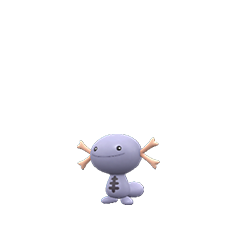
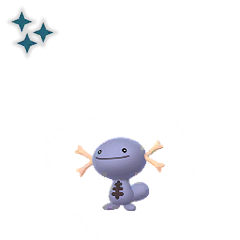
added shiny image frame downloading and saving

Changed region(s): [[0.2917, 0.5542, 0.7, 0.9042], [0.0292, 0.0292, 0.2333, 0.2333]]

diff --git a/backend/data/editor/frames/pokemon_shiny_image_frame.py b/backend/data/editor/frames/pokemon_shiny_image_frame.py
@@ -1,4 +1,4 @@
-# pokemon_image_frame.py
+# pokemon_shiny_image_frame.py
 import tkinter as tk
 from tkinter import filedialog, messagebox, simpledialog
 from PIL import Image, ImageTk
@@ -6,11 +6,11 @@ import os
 import requests
 from io import BytesIO
 
-class PokemonImageFrame:
-    def __init__(self, parent, image_url, pokemon_id):
+class PokemonShinyImageFrame:
+    def __init__(self, parent, image_url_shiny, pokemon_id):
         self.parent = parent
         self.pokemon_id = pokemon_id
-        self.frame = tk.Frame(parent)  # This is the main frame
+        self.frame = tk.Frame(parent)
         self.frame.pack(side=tk.LEFT, fill=tk.BOTH, expand=True, padx=10, pady=10)
 
         # Create a container frame within the main frame
@@ -18,7 +18,7 @@ class PokemonImageFrame:
         self.container_frame.pack(fill=tk.BOTH, expand=True, padx=5, pady=5)
 
         # Create a label for the container frame
-        self.frame_label = tk.Label(self.container_frame, text=f"Default Image Pokemon ID: {pokemon_id}", bg="white")
+        self.frame_label = tk.Label(self.container_frame, text=f"Shiny Image Pokémon ID: {pokemon_id}", bg="white")
         self.frame_label.pack(side=tk.TOP, fill=tk.X)
 
         # Initialize image_label attribute within the container frame
@@ -27,29 +27,32 @@ class PokemonImageFrame:
 
         # Get the directory of the currently executing script/file
         script_directory = os.path.dirname(os.path.realpath(__file__))
-
+        
         # Correctly navigate up four directories from the script location to reach the Go folder
         go_directory = os.path.normpath(os.path.join(script_directory, '../../../../'))
 
         # Construct the path to the images directory
         self.relative_path_to_images = os.path.join(go_directory, 'frontend', 'public')
 
-        # Trim leading slash from image_url if present to ensure it's treated as relative
-        image_url = image_url.lstrip("\\/")
+        # Trim leading slash from image_url_shiny if present to ensure it's treated as relative
+        image_url_shiny = image_url_shiny.lstrip("\\/")
 
-        # Combine the base path with the specific image URL
-        self.full_image_path = os.path.join(self.relative_path_to_images, image_url)
+        # Combine the base path with the specific shiny image URL
+        self.full_image_path = os.path.join(self.relative_path_to_images, image_url_shiny)
 
         # Normalize the path to ensure consistent slashes
         self.full_image_path = os.path.normpath(self.full_image_path)
 
-        # Attempt to load and display the image
+        # Determine paths relative to the script
+        self.shiny_icon_path = os.path.normpath(os.path.join(self.relative_path_to_images, 'images', 'shiny_icon.png'))
+
+        # Attempt to load and display the shiny image
         try:
             self.image = Image.open(self.full_image_path)
             self.photo = ImageTk.PhotoImage(self.image)
             self.image_label.configure(image=self.photo)
         except FileNotFoundError:
-            print(f"Image file does not exist: {self.full_image_path}")
+            print(f"Shiny image file does not exist: {self.full_image_path}")
             # Optionally set a default image if the file is not found
             self.photo = ImageTk.PhotoImage(Image.new('RGB', (240, 240), color='grey'))
             self.image_label.configure(image=self.photo)
@@ -106,6 +109,8 @@ class PokemonImageFrame:
                 messagebox.showerror("Error", f"Failed to process the image: {e}")
 
     def save_and_update_image(self, image):
+        # Combine image with the shiny icon before saving
+        combined_image = self.combine_images(image)
         # Check if the image_url already contains the 'images' directory
         if 'images' not in self.full_image_path:
             # If 'images' is not in the path, it's a new image, so add the directory
@@ -120,14 +125,21 @@ class PokemonImageFrame:
         # Make sure the directory exists, create if it doesn't
         os.makedirs(os.path.dirname(save_path), exist_ok=True)
 
-        # Save the image
-        image.save(save_path)
+        # Save the combined image instead of the original image
+        combined_image.save(save_path, "PNG")
 
         # Update the displayed image
-        self.photo = ImageTk.PhotoImage(image)
+        self.photo = ImageTk.PhotoImage(Image.open(save_path))
         self.image_label.configure(image=self.photo)
-        self.image_label.image = self.photo  # keep a reference
+        self.image_label.image = self.photo
 
         messagebox.showinfo("Success", f"Image updated successfully at {save_path}")
 
-
+    def combine_images(self, pokemon_image):
+        """
+        Combine the downloaded or selected Pokémon image with the shiny icon.
+        """
+        shiny_icon = Image.open(self.shiny_icon_path).convert("RGBA")
+        base_image = pokemon_image.copy()
+        base_image.paste(shiny_icon, (0, 0), shiny_icon)
+        return base_image

diff --git a/backend/data/editor/pokemon_details_window.py b/backend/data/editor/pokemon_details_window.py
@@ -8,6 +8,7 @@ from frames.pokemon_moves_frame import PokemonMovesFrame
 from frames.pokemon_evolutions_frame import PokemonEvolutionsFrame
 from frames.pokemon_shadow_frame import PokemonShadowFrame
 from frames.pokemon_image_frame import PokemonImageFrame
+from frames.pokemon_shiny_image_frame import PokemonShinyImageFrame
 
 class PokemonDetailsWindow:
     
@@ -79,8 +80,13 @@ class PokemonDetailsWindow:
         self.shadow_frame = PokemonShadowFrame(second_container, self.pokemon_id, self.shadow_pokemon_data, self.db_manager)
         self.shadow_frame.pack(side=tk.LEFT, fill=tk.BOTH, expand=True)
 
+        # Image Frame
         image_url = self.pokemon_data[3]  # Assuming the image URL is at this index
-        self.image_frame = PokemonImageFrame(main_container, image_url)
+        self.image_frame = PokemonImageFrame(main_container, image_url, pokemon_id)
+
+        # Shiny Image Frame
+        shiny_image_url = self.pokemon_data[4]  # Assuming the shiny image URL is at this index (update as necessary)
+        self.shiny_image_frame = PokemonShinyImageFrame(main_container, shiny_image_url, pokemon_id)
 
         # Save Button
         save_button = tk.Button(self.window, text="Save Changes", command=self.save_changes)
